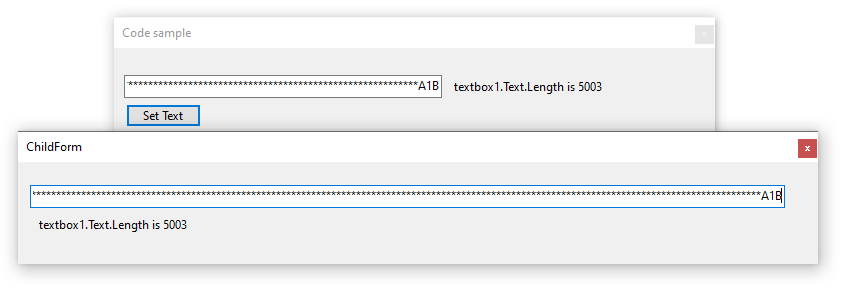
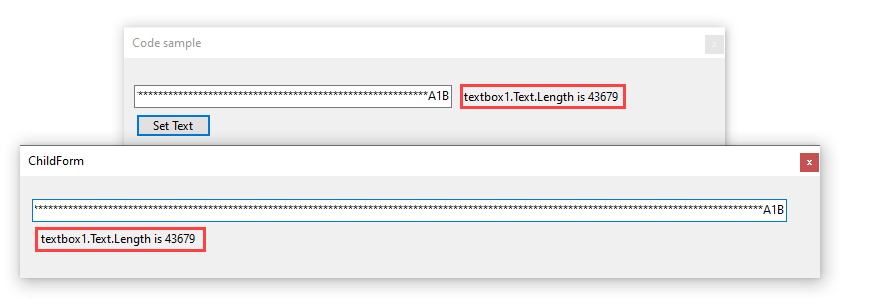
tweaks

Changed region(s): [[0.0306, 0.0912, 0.9788, 0.973], [0.1224, 0.0304, 0.8259, 0.1824]]

diff --git a/TextBoxExperiments/Form1.cs b/TextBoxExperiments/Form1.cs
@@ -20,7 +20,7 @@ namespace TextBoxExperiments
 
         private void button1_Click(object sender, EventArgs e)
         {
-            string longString = new string('*', 5000) + "A1B";
+            string longString = new string('*', 43676) + "A1B";
             textBox1.Text = longString;
             textBox1.SelectionStart = textBox1.Text.Length;
             textBox1.SelectionLength = 0;
